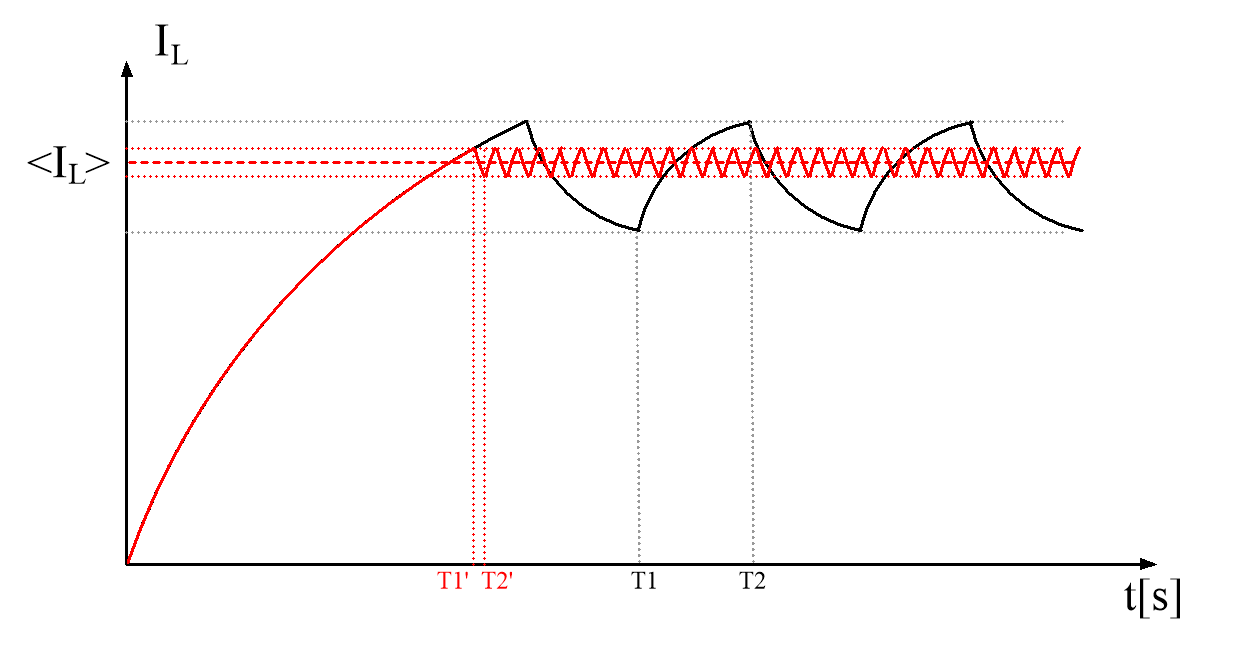
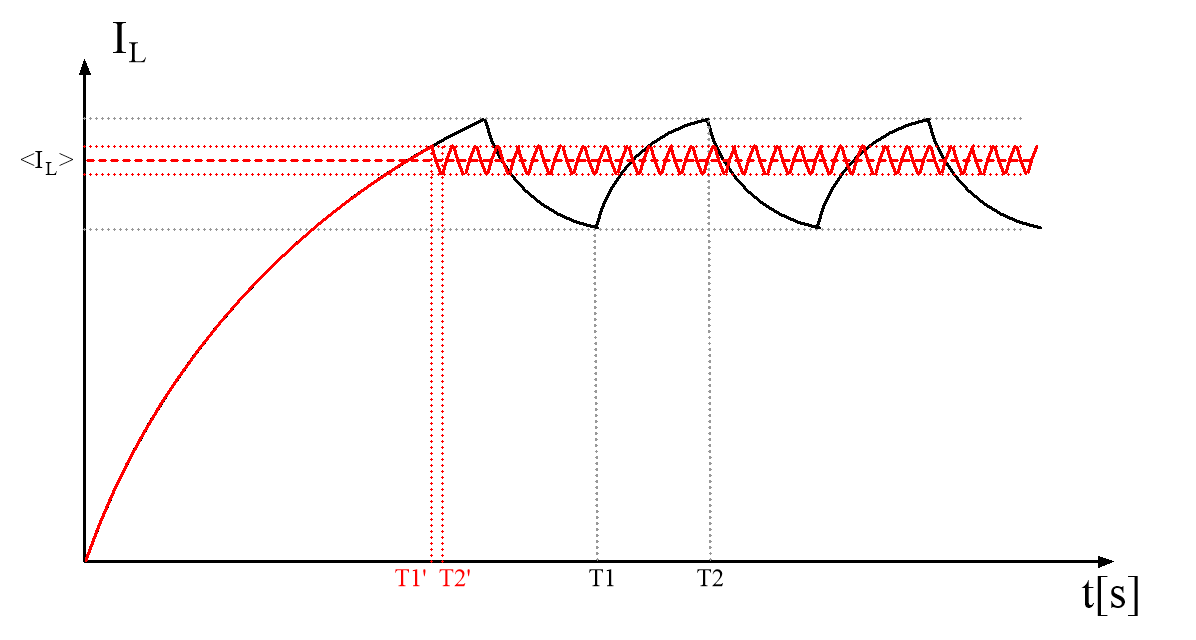
Agregado de imágenes al capitulo del controlador y actualización de imágenes

diff --git a/Informe final/Proyecto Levitador LaTeX/Informe/4-ControladorCorriente/ControladorCorriente.tex b/Informe final/Proyecto Levitador LaTeX/Informe/4-ControladorCorriente/ControladorCorriente.tex
@@ -106,13 +106,23 @@ Aunque aún no se define con qué tensión se alimentará el sistema, se puede p
 
 Como se analizó en la sección anterior, al trabajar con corrientes elevadas, no es eficiente utilizar un transistor que trabaje en su zona lineal puesto que el consumo de energía es elevado. Se propone entonces utilizar una fuente conmutada.
 
-\noindent Para lograr una corriente continua en el electroimán mediante una fuente conmutada se debe alternar la polaridad de la tensión aplicada en sus bornes. De esta forma, se aprovecha el transitorio mostrado en la figura \ref{fig:img_respuesta_escalon} para hacer crecer la corriente hasta llegar a un cierto valor (denominado límite superior), y luego se conmuta la polaridad de la alimentación para que decrezca. Nuevamente, al llegar a un cierto valor (denominado límite inferior), se vuelve a conmutar. Este proceso se repite, y se logra que la corriente oscile en torno al valor medio entre los dos límites, que es el valor de corriente continua deseado. Aunque en la figura \ref{fig:img_respuesta_escalon} el crecimiento de la corriente tiene forma exponencial negativa, si se elige que el intervalo de tiempo de la conmutación sea pequeño comparado con la constante de tiempo de la planta, el incremento de corriente será pequeño y puede ser aproximado como una rampa. Por lo tanto, se obtiene una corriente continua con un ripple \colorbox{red}{PONEMOS RIPPLE O EN ESPAÑOL??}superpuesto de forma triangular, como la que se muestra en la figura \ref{fig:img_corriente_triangular}. 
+\noindent Para lograr una corriente continua en el electroimán mediante una fuente conmutada se debe alternar la polaridad de la tensión aplicada en sus bornes. De esta forma, se aprovecha el transitorio mostrado en la figura \ref{fig:img_respuesta_escalon} para hacer crecer la corriente hasta llegar a un cierto valor (denominado límite superior), y luego se conmuta la polaridad de la alimentación para que decrezca. Nuevamente, al llegar a un cierto valor (denominado límite inferior), se vuelve a conmutar. Este proceso se repite, y se logra que la corriente oscile en torno al valor medio entre los dos límites, que es el valor de corriente continua deseado. 
 
 \begin{figure}[H]
 	\centering
-	\includegraphics[scale=0.5]{triangular.png}
-	\caption{Forma de onda de corriente. CAPAZ HABRÍA QUE PONER UNA IMAGEN HECHA POR NOSOTROS}
-	\label{fig:img_corriente_triangular}
+	\includegraphics[scale=0.5]{forma-de-onda-corriente-exponencial.png}
+	\caption{Forma de onda de corriente.}
+	\label{fig:img_corriente_exponencial}
+\end{figure}
+
+
+Aunque en la figura \ref{fig:img_corriente_exponencial} el crecimiento de la corriente tiene forma exponencial negativa, si se elige que el intervalo de tiempo de la conmutación sea pequeño comparado con la constante de tiempo de la planta, el incremento de corriente será pequeño y puede ser aproximado como una rampa. Por lo tanto, se obtiene una corriente continua con un ripple \colorbox{red}{PONEMOS RIPPLE O EN ESPAÑOL??}superpuesto de forma triangular, como la que se muestra en la figura \ref{fig:img_corriente_triangular}\label{fig:img_corriente_lineal}.
+
+\begin{figure}[H]
+	\centering
+	\includegraphics[scale=0.5]{forma-de-onda-corriente-lineal.png}
+	\caption{Forma de onda de corriente al disminuir el período de conmutación.}
+	\label{fig:img_corriente_lineal}
 \end{figure}
 
 Entonces, se desea diseñar un circuito que permita poder alternar la polaridad de la tensión aplicada al electroimán y controlar el valor medio de su corriente. Entre las distintas topologías de fuentes conmutadas que se utilizan comúnmente, una que tiene la capacidad de alimentar su carga en ambos sentidos es la topología de puente completo con 4 llaves. Esta se muestra en la figura \ref{fig:img_topologia_simplificada}. Cada llave puede ser controlada de manera independiente mediante señales eléctricas.
